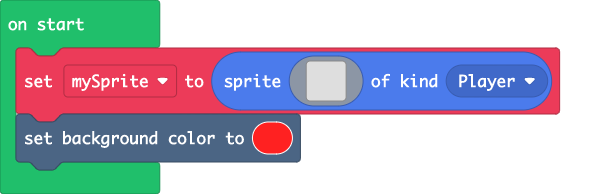
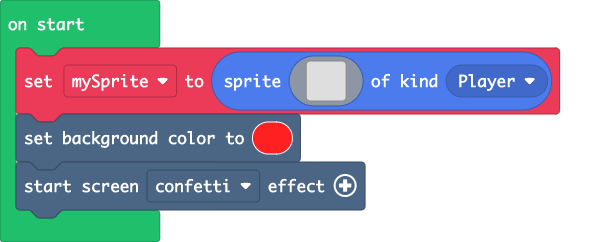
Update main.blocks, main.ts

diff --git a/main.ts b/main.ts
@@ -17,3 +17,4 @@ let mySprite = sprites.create(img`
     . . . . . . . . . . . . . . . . 
     `, SpriteKind.Player)
 scene.setBackgroundColor(2)
+effects.confetti.startScreenEffect()
